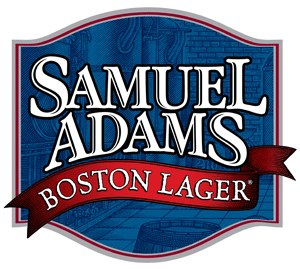
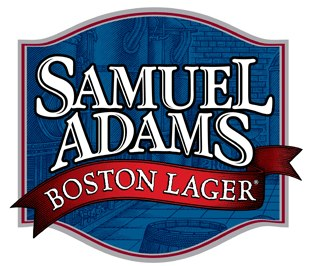
resized images

diff --git a/www/css/style.css b/www/css/style.css
@@ -61,7 +61,7 @@ body {
   border: none;
 }
 .swipe-card .image img {
-  /*max-width: 100%;*/
+  max-width: 100%;
   max-height: 100%;
   border-radius: 0px 0px 4px 4px;
 }
